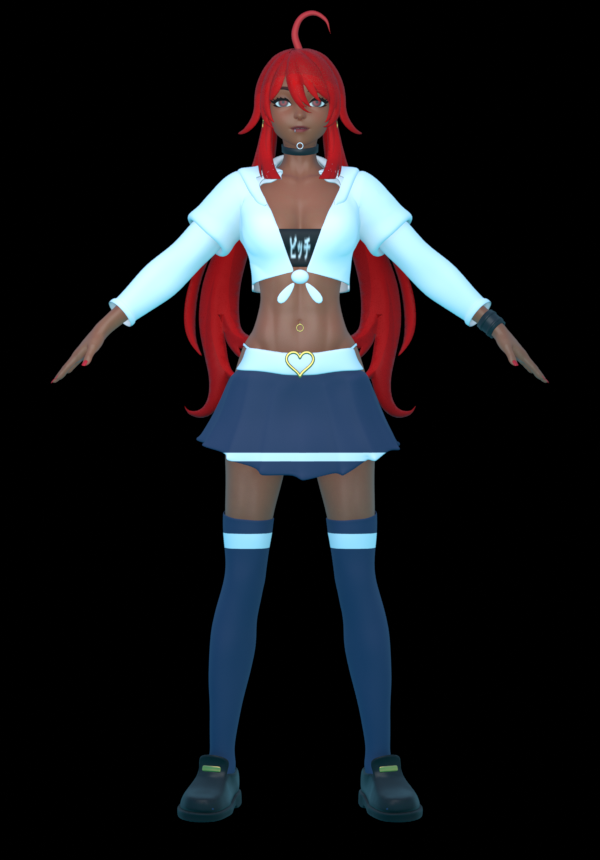
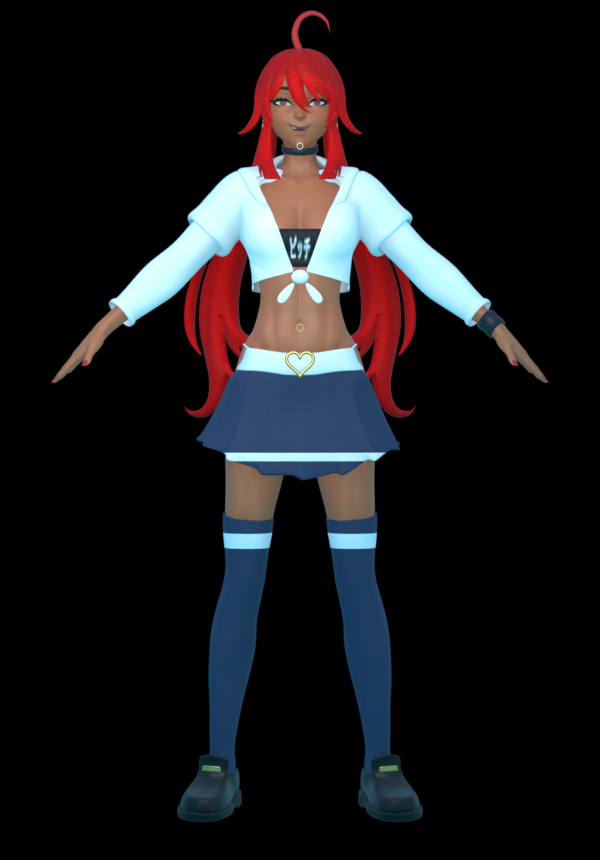
Restyle: rework face, tan and hair toward the reference
Warmer tan, smaller dark-red irises, upturned half-lidded eyes, thinner
lips posed in a toothy smirk, lighter lip colour and a more vivid red
on the hair. Previews re-rendered.

Claude-Session: https://claude.ai/code/session_01YBmGHDL1HPYT4vQtLqAYCC

Changed region(s): [[0.42, 0.0605, 0.57, 0.2721], [0.42, 0.3023, 0.57, 0.4233], [0.12, 0.3628, 0.21, 0.4233]]

diff --git a/character_restyle/restyle.py b/character_restyle/restyle.py
@@ -6,7 +6,8 @@ Run with Blender 4.1 / 4.2 (or the matching `bpy` module):
 
 What it changes (everything stays rigged; new props are bone-parented):
   * skin      -> warm tan (tint node inside the shared "Skin Shader" group)
-  * eyes      -> dark red irises painted into the head texture
+  * eyes      -> smaller dark-red irises painted into the head texture; eye
+                 corners, lids and lips re-posed for a sharp-eyed smirk
   * make-up   -> blush toned down, deeper lipstick, long red nails (rig props)
   * hair      -> adds the antenna strand ("ahoge") on the crown
   * outfit    -> sailor top turned into an open, long-sleeved white shirt knotted
@@ -28,11 +29,11 @@ from mathutils.bvhtree import BVHTree
 
 OUT = sys.argv[sys.argv.index("--") + 1] if "--" in sys.argv else None
 
-TAN = (0.60, 0.43, 0.33, 1.0)        # multiplied over the skin albedo
+TAN = (0.88, 0.64, 0.44, 1.0)        # multiplied over the skin albedo
 NAIL_RED = (0.55, 0.0, 0.01, 1.0)
-LIP_RED = (0.35, 0.02, 0.04, 1.0)
-IRIS_DARK = (0.22, 0.0, 0.01)
-IRIS_LIGHT = (0.85, 0.04, 0.05)
+LIP_PINK = (0.75, 0.25, 0.25, 1.0)
+IRIS_DARK = (0.20, 0.0, 0.01)
+IRIS_LIGHT = (0.70, 0.03, 0.04)
 SKIRT_DROP = 0.055                   # metres
 NAVY = (0.018, 0.030, 0.075, 1.0)
 WHITE = (0.80, 0.80, 0.82, 1.0)
@@ -170,8 +171,8 @@ setp("2. Nails Length", 1.0)
 setp("2. Nails Color", NAIL_RED)
 setp("2. Nails Color Opacity", 1.0)
 setp("2. Blush", 0.12)
-setp("2. Lipstick", 0.45)
-setp("2. Lipstick Color", LIP_RED)
+setp("2. Lipstick", 0.22)
+setp("2. Lipstick Color", LIP_PINK)
 
 wardrobe = arm.pose.bones["Clothes 2"]
 wardrobe["1. Bra"] = 4                    # no optional top (0-2 pick one), the bandeau replaces it
@@ -195,13 +196,15 @@ for sel in (ys < mid, ys >= mid):
     rad = math.sqrt(sel.sum() / math.pi)
     yy, xx = np.mgrid[0:sub.shape[0], 0:sub.shape[1]]
     d = np.hypot(yy - cy, xx - cx) / rad
-    iris = (d > 0.40) & (d < 0.97)
-    t = np.clip((d - 0.40) / 0.57, 0, 1)[..., None]
-    # radial streaks so the iris is not flat
-    ang = np.arctan2(yy - cy, xx - cx)
-    streak = (0.85 + 0.15 * np.sin(ang * 36))[..., None]
-    col = (np.array(IRIS_LIGHT) * (1 - t) + np.array(IRIS_DARK) * t) * streak
-    col = np.where(t > 0.86, np.array(IRIS_DARK) * 0.4, col)  # limbal ring
+    # smaller, darker iris: black pupil, maroon ring brightening toward the lower rim, dark outline
+    IR = 0.80
+    sclera = np.array((0.80, 0.79, 0.76))
+    ring = (d >= IR) & (d < 1.05)
+    sub[ring] = sclera
+    iris = (d > 0.34) & (d < IR)
+    t = np.clip((d - 0.34) / (IR - 0.34), 0, 1)[..., None]
+    col = np.array(IRIS_DARK) * (1 - t) + np.array(IRIS_LIGHT) * t
+    col = np.where(t > 0.88, np.array(IRIS_DARK), col)
     sub[iris] = col[iris]
 img.pixels.foreach_set(px.ravel())
 img.update()
@@ -212,8 +215,44 @@ for node in bpy.data.materials["MI_Base_Eyes"].node_tree.nodes:
     if node.type == "GROUP" and "Rough Min" in node.inputs:
         node.inputs["Rough Min"].default_value = 0.45
 
+# hair: push the red toward the vivid reference colour
+hmat = bpy.data.materials["头发"]
+hnt = hmat.node_tree
+hfx = next(n for n in hnt.nodes if n.type == "GROUP" and "Diffuse" in n.inputs)
+src = hfx.inputs["Diffuse"].links[0].from_socket
+hsv = hnt.nodes.new("ShaderNodeHueSaturation")
+hsv.name = "Rebel Hair Boost"
+hsv.inputs["Saturation"].default_value = 1.2
+hsv.inputs["Value"].default_value = 1.35
+hnt.links.new(src, hsv.inputs["Color"])
+hnt.links.new(hsv.outputs["Color"], hfx.inputs["Diffuse"])
+
 # half-lidded stare (rig control: 0 = open, -0.015 = closed); reset it to 0 to undo
-arm.pose.bones["Blink Eyes"].location.y = -0.0055
+arm.pose.bones["Blink Eyes"].location.y = -0.0062
+
+# face shape, set as pose offsets on the facial bones (world-space metres; "her" left/right).
+# Clear the pose on these bones to get the original face back.
+FACE = {
+    # sharper, upturned eyes
+    "L_EyeCornerOuter": (0.003, 0, 0.011), "R_EyeCornerOuter": (-0.003, 0, 0.011),
+    "L_EyeCornerInner": (0, 0, -0.006), "R_EyeCornerInner": (0, 0, -0.006),
+    "L_EyelidLowerA": (0, 0, 0.003), "R_EyelidLowerA": (0, 0, 0.003),
+    # thinner lips, wider mouth, right corner pulled up into a smirk
+    "C_LipUpper": (0, 0.004, -0.002), "L_LipUpper": (0, 0.004, -0.002), "R_LipUpper": (0, 0.004, 0.001),
+    "C_LipLower": (0, 0.004, 0.002), "L_LipLower": (0, 0.004, 0.003), "R_LipLower": (0, 0.004, -0.001),
+    "L_LipsCorner": (0.007, 0, 0), "R_LipsCorner": (-0.010, 0, 0.007),
+}
+for bone, off in FACE.items():
+    pb = arm.pose.bones[bone]
+    bpy.context.view_layer.update()
+    m = pb.matrix.copy()
+    m.translation = m.translation + Vector(off)
+    pb.matrix = m
+mouth = arm.pose.bones["Mouth Control"]
+mouth.rotation_mode = "XYZ"
+mouth.rotation_euler = (0, 0, math.radians(-8))    # slight grin
+mouth.location.y -= 0.004                          # jaw open just enough to show teeth and tongue
+bpy.context.view_layer.update()
 
 # ---------------------------------------------------------------- body surface lookup
 deps = bpy.context.evaluated_depsgraph_get()

diff --git a/character_restyle/README.md b/character_restyle/README.md
@@ -13,7 +13,8 @@ reference look. The `.blend` itself is ~100 MB and is not stored in the repo.
 | --- | --- |
 | ![before](previews/before.png) | ![after](previews/full.png) |
 
-What changes: tan skin, dark-red irises, half-lidded eyes, toned-down blush,
+What changes: warm tan skin, small dark-red irises, upturned half-lidded eyes,
+thinner lips posed in a smirk, vivid red hair, toned-down blush,
 long red nails, ahoge strand, open long-sleeved white shirt knotted over a
 black lettered bandeau, navy pleated skirt with white hem stripe, white belt
 and gold heart buckle, navy thigh-highs with a white band, choker, gold hoop
